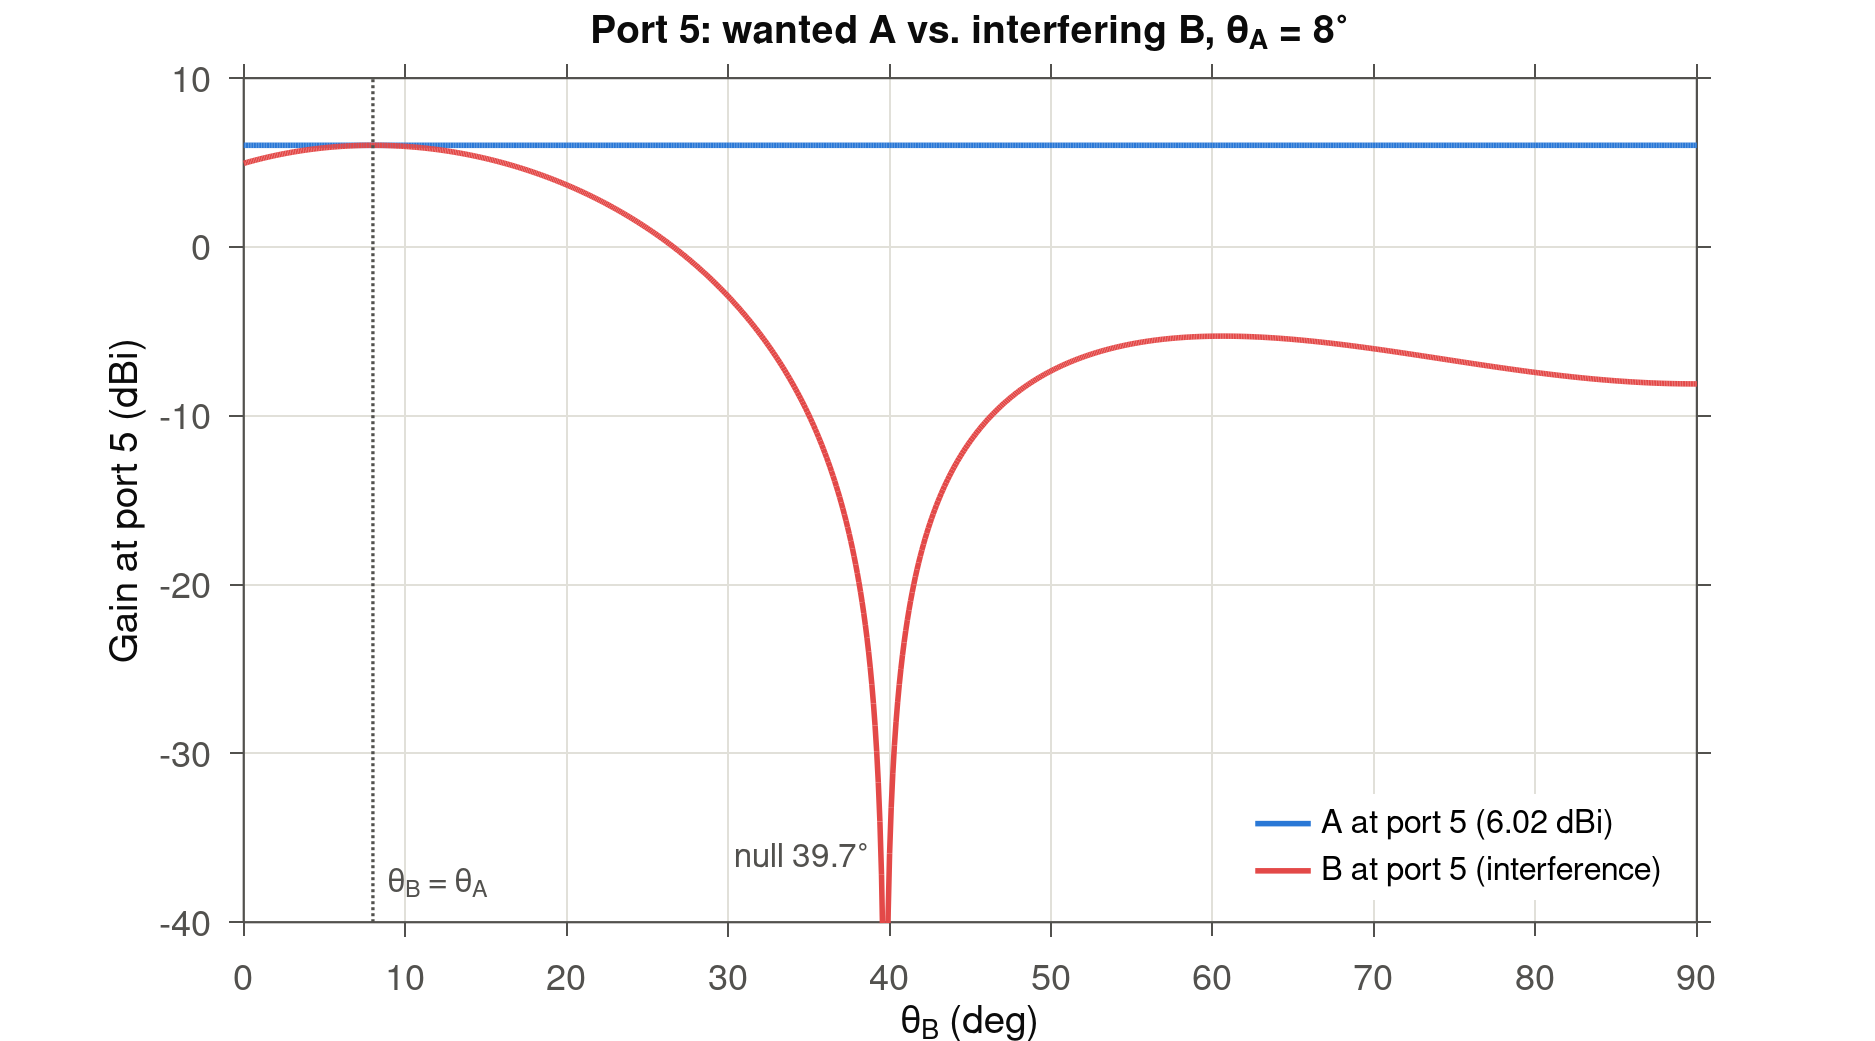
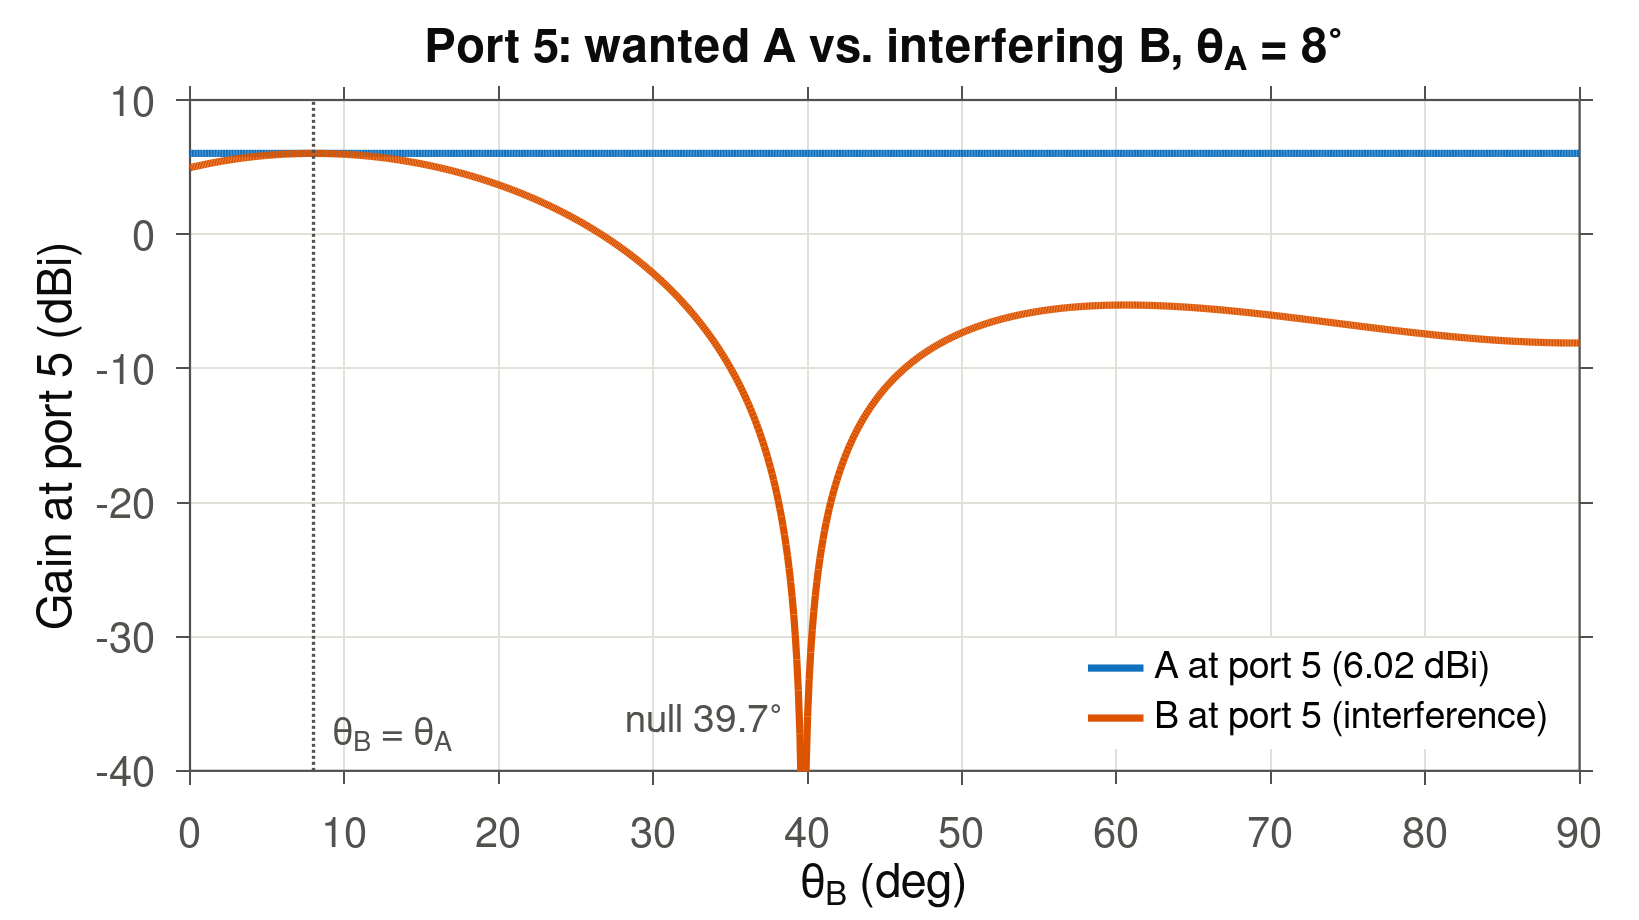
added results overview

diff --git a/SatCom_AnalogBFN/questions/q5_two_bit.m b/SatCom_AnalogBFN/questions/q5_two_bit.m
@@ -305,9 +305,10 @@ function plot_q5(cfg, Q4, Q5)
     busy = [cfg.thetaA - 1, cfg.thetaA + 14];           % the thetaA label at the bottom
     corners = {'southeast', [55 90]; 'southwest', [0 35]};
 
-    % ---- main figure: gains at port 6 + change, both designs -----------------
-    fig = new_figure(cfg, 'Q5 - 2-bit phase shifters', 900, 760);
-    ax  = sub_axes(fig, 2, 1, 1); hold(ax, 'on');
+    % ---- main figure: gains at port 6 (left) + change versus ideal (right) ---
+    fig = new_figure(cfg, 'Q5 - 2-bit phase shifters', 1129, 374);
+    mg  = [0.95 0.2 0.75 0.45 1.0 0];                   % margins [inch], see sub_axes
+    ax  = sub_axes(fig, 1, 2, 1, mg); hold(ax, 'on');
     yl  = [-40 10];  lo = yl(1) - 10;  hi = yl(2) + 10;
     set(ax, 'XLim', [0 90], 'YLim', yl, 'XTick', 0:10:90, 'YTick', -40:10:10);
     h1 = plot(ax, thB, clip_for_plot(Q4.G_B6, lo, hi), 'Color', st.ref, 'LineWidth', st.lwRef);
@@ -315,13 +316,13 @@ function plot_q5(cfg, Q4, Q5)
     h4 = plot(ax, thB, clip_for_plot(Q5.G_A6, lo, hi), 'Color', st.A, 'LineWidth', st.lw);
     h2 = plot(ax, thB, clip_for_plot(kn.G_B6, lo, hi), 'Color', st.B, 'LineWidth', st.lw);
     vguide(ax, cfg.thetaA, '\theta_B = \theta_A', cfg, 'bottom');
-    style_axes(ax, cfg, '', 'Gain at port 6 (dBi)', ...
-               [tag ' phase shifters (0/90/180/270^{\circ}), ' thetaA_tag(cfg)]);
-    legend(ax, [h2 h3 h4 h1], {'B, null on A kept (A: -\infty)', 'B, maximise B', ...
-           'A, maximise B (leakage)', 'B, ideal shifters (Q4)'}, ...
+    style_axes(ax, cfg, '\theta_B (deg)', 'Gain at port 6 (dBi)', ...
+               [tag ' shifters (0/90/180/270^{\circ}), ' thetaA_tag(cfg)]);
+    legend(ax, [h2 h3 h4 h1], {'B, null kept (A: -\infty)', 'B, maximise B', ...
+           'A, maximise B (leak)', 'B, ideal (Q4)'}, ...
            'Location', free_corner(busy, corners, 'eastoutside'), 'Box', 'off');
 
-    ax  = sub_axes(fig, 2, 1, 2); hold(ax, 'on');
+    ax  = sub_axes(fig, 1, 2, 2, mg); hold(ax, 'on');
     yl  = [-6 8];  lo = yl(1) - 5;  hi = yl(2) + 5;
     set(ax, 'XLim', [0 90], 'YLim', yl, 'XTick', 0:10:90, 'YTick', -6:2:8);
     plot(ax, [0 90], [0 0], '-', 'Color', st.ink2, 'LineWidth', 0.8);
@@ -336,7 +337,7 @@ function plot_q5(cfg, Q4, Q5)
     text(ax, xl, yl(2) - 0.5, 'maximise B: +\infty at \theta_B = \theta_A', ...
          'HorizontalAlignment', ha, 'VerticalAlignment', 'top', 'Color', st.ink2, 'FontSize', st.fs - 1);
     style_axes(ax, cfg, '\theta_B (deg)', '\DeltaG_{B,6} (dB)', ...
-               ['Change of B gain at port 6: ' tag ' minus ideal']);
+               ['Change of B at port 6: ' tag ' minus ideal']);
     % top corners: both changes stay well below +4 dB away from thetaA
     legend(ax, [g2 g3], {'null on A kept', 'maximise B'}, ...
            'Location', free_corner(txt, {'northeast', [65 90]; 'northwest', [0 25]}, 'eastoutside'), ...
@@ -344,8 +345,8 @@ function plot_q5(cfg, Q4, Q5)
     save_figure(cfg, fig, sprintf('Q5_%dbit_gain_port6', Q5.nBits));
 
     % ---- backup: breakdown of design 2 ---------------------------------------
-    fig = new_figure(cfg, 'Q5b - breakdown', 900, 500);
-    ax  = axes('Parent', fig); hold(ax, 'on');
+    fig = new_figure(cfg, 'Q5b - breakdown', 787, 442);
+    ax  = sub_axes(fig, 1, 1, 1, [0.95 0.3 0.75 0.5 0 0]); hold(ax, 'on');   % fixed margins [inch]
     yl  = [-4 8];  lo = yl(1) - 5;  hi = yl(2) + 5;
     set(ax, 'XLim', [0 90], 'YLim', yl, 'XTick', 0:10:90, 'YTick', -4:2:8);
     plot(ax, [0 90], [0 0], '-', 'Color', st.ink2, 'LineWidth', 0.8);
@@ -365,12 +366,12 @@ function plot_q5(cfg, Q4, Q5)
     % ---- backup: resolution sweep, both designs ------------------------------
     sw  = Q5.sweep;
     xlb = [sw.bits(1) - 0.3, sw.bits(end) + 0.3];
-    fig = new_figure(cfg, 'Q5c - resolution sweep', 900, 440);
-    ax  = sub_axes(fig, 1, 2, 1); hold(ax, 'on');
+    fig = new_figure(cfg, 'Q5c - resolution sweep', 1129, 374);
+    ax  = sub_axes(fig, 1, 2, 1, mg); hold(ax, 'on');
     hk = plot(ax, sw.bits, sw.knLossMax, '-o', 'Color', st.B, 'LineWidth', st.lw, ...
-              'MarkerFaceColor', st.B, 'MarkerEdgeColor', 'w', 'MarkerSize', 8);
+              'MarkerFaceColor', st.B, 'MarkerEdgeColor', 'w', 'MarkerSize', 10);
     hm = plot(ax, sw.bits, sw.lossMax, '--o', 'Color', st.B, 'LineWidth', st.lwRef + 0.4, ...
-              'MarkerFaceColor', 'w', 'MarkerEdgeColor', st.B, 'MarkerSize', 7);
+              'MarkerFaceColor', 'w', 'MarkerEdgeColor', st.B, 'MarkerSize', 9);
     ytop = max(2, 2*ceil(max([sw.lossMax, sw.knLossMax]) / 2) + 2);
     set(ax, 'XLim', xlb, 'XTick', sw.bits, 'YLim', [0 ytop]);
     style_axes(ax, cfg, 'phase-shifter bits', 'worst B loss (dB)', 'B at port 6 (where ideal \geq 0 dBi)');
@@ -380,9 +381,9 @@ function plot_q5(cfg, Q4, Q5)
     loc = 'northwest';  if right < left, loc = 'northeast'; end
     legend(ax, [hk hm], {'null on A kept', 'maximise B'}, 'Location', loc, 'Box', 'off');
 
-    ax  = sub_axes(fig, 1, 2, 2); hold(ax, 'on');
+    ax  = sub_axes(fig, 1, 2, 2, mg); hold(ax, 'on');
     plot(ax, sw.bits, sw.A6_max, '--o', 'Color', st.A, 'LineWidth', st.lwRef + 0.4, ...
-         'MarkerFaceColor', 'w', 'MarkerEdgeColor', st.A, 'MarkerSize', 7);
+         'MarkerFaceColor', 'w', 'MarkerEdgeColor', st.A, 'MarkerSize', 9);
     yl = [10*floor(min(sw.A6_max)/10) - 5, max(5, 5*ceil(max(sw.A6_max)/5) + 5)];
     set(ax, 'XLim', xlb, 'XTick', sw.bits, 'YLim', yl);
     text(ax, sw.bits(1) + 0.2, sw.A6_max(1), 'maximise B', 'HorizontalAlignment', 'left', ...

diff --git a/SatCom_AnalogBFN/questions/q3_B_network.m b/SatCom_AnalogBFN/questions/q3_B_network.m
@@ -4,7 +4,7 @@ function Q3 = q3_B_network(cfg, Q1)
 %   Deliverable A3 ("determine and plot the unknowns vs thetaB").
 %   Algorithm: design_B_network.m (stage-wise co-phasing + maximal-ratio
 %   combining on the A-free outputs). Cross-checked with closed_form_design.m.
-%   Draws results/figures/Q3_B_network_unknowns_vs_thetaB.png.
+%   Draws results/figures/Q3_B_network_unknowns_vs_thetaB.png (one panel per unknown).
 
     fprintf('\n=== Q3  B network (red): phi4, phi5 and VRC ratio versus thetaB ===\n');
     B  = design_B_network(cfg, Q1.A.settings);
@@ -42,13 +42,14 @@ function Q3 = q3_B_network(cfg, Q1)
               [B.thetaB(:), B.phi4(:), B.phi5(:), B.kappa(:), B.C(:), ...
                10*log10(B.C(:)), 10*log10(1 - B.C(:))], '%.6f');
 
-    % ---- figure: three stacked panels sharing thetaB ------------------------
+    % ---- figure: the three unknowns side by side -----------------------------
     st  = cfg.style;
-    fig = new_figure(cfg, 'Q3 - B network unknowns', 900, 760);
-    names = {'\phi_4 (deg)', '\phi_5 (deg)', 'VRC coupling C (%)'};
+    fig = new_figure(cfg, 'Q3 - B network unknowns', 1129, 317);
+    ylab  = {'\phi_4 (deg)', '\phi_5 (deg)', 'VRC coupling C (%)'};
+    ttl   = {'\phi_4: H4 in phase', '\phi_5: VRC inputs in phase', 'C = sin^2\kappa: no B in the loads'};
     data  = {B.phi4, B.phi5, 100*B.C};
     for k = 1:3
-        ax = sub_axes(fig, 3, 1, k); hold(ax, 'on');
+        ax = sub_axes(fig, 1, 3, k, [0.95 0.2 0.75 0.45 0.95 0]); hold(ax, 'on');
         if k < 3
             [xb, yb] = break_wraps(B.thetaB, data{k});
             set(ax, 'YLim', [0 360], 'YTick', 0:90:360);
@@ -56,7 +57,7 @@ function Q3 = q3_B_network(cfg, Q1)
             xb = B.thetaB; yb = data{k};
             set(ax, 'YLim', [0 100], 'YTick', 0:25:100);
         end
-        set(ax, 'XLim', [0 90], 'XTick', 0:10:90);
+        set(ax, 'XLim', [0 90], 'XTick', 0:15:90);
         if k == 3
             plot(ax, [0 90], [50 50], '--', 'Color', st.ref, 'LineWidth', st.lwRef);
             text(ax, 89, 50, '3-dB coupler', 'HorizontalAlignment', 'right', ...
@@ -64,18 +65,11 @@ function Q3 = q3_B_network(cfg, Q1)
         end
         plot(ax, xb, yb, 'Color', st.B, 'LineWidth', st.lw);
         vguide(ax, cfg.thetaA, '', cfg);
-        if k == 1
-            style_axes(ax, cfg, '', names{k}, ['B network settings versus \theta_B, ' thetaA_tag(cfg)]);
+        style_axes(ax, cfg, '\theta_B (deg)', ylab{k}, ttl{k});
+        if k == 2                          % where the settings are undefined (B identical to A)
             yl = get(ax, 'YLim');
-            text(ax, cfg.thetaA, yl(2), '  \theta_B = \theta_A (undefined)', 'VerticalAlignment', 'top', ...
-                 'Color', st.ink2, 'FontSize', st.fs - 1);
-        elseif k == 2
-            style_axes(ax, cfg, '', names{k});
-        else
-            style_axes(ax, cfg, '\theta_B (deg)', names{k});
-        end
-        if k < 3
-            set(ax, 'XTickLabel', {});
+            text(ax, cfg.thetaA, yl(2) - 0.03*diff(yl), ['  ' thetaA_tag(cfg) ' (undefined)'], ...
+                 'VerticalAlignment', 'top', 'Color', st.ink2, 'FontSize', st.fs - 1);
         end
     end
     save_figure(cfg, fig, 'Q3_B_network_unknowns_vs_thetaB');

diff --git a/SatCom_AnalogBFN/questions/results_overview.m b/SatCom_AnalogBFN/questions/results_overview.m
@@ -1,0 +1,46 @@
+function results_overview(cfg, Q2, Q4, Q5)
+%RESULTS_OVERVIEW  Q2, Q4 and Q5 merged into one figure (results slide).
+%
+%   Left : ideal phase shifters - A and B at port 5 (Q2) and B at port 6 (Q4).
+%          Port 6 gets exactly the B power that port 5 misses.
+%   Right: 2-bit phase shifters - change of the B gain at port 6 (Q5) for
+%          both 2-bit designs.
+%   Draws results/figures/Q2_Q4_Q5_overview.png. The separate figures of
+%   each question stay in q2_..., q4_... and q5_....
+
+    st  = cfg.style;
+    thB = cfg.thetaB;
+    kn  = Q5.keepNull;
+    fig = new_figure(cfg, 'Q2, Q4, Q5 - overview', 1129, 374);
+    mg  = [0.95 0.2 0.75 0.45 1.0 0];                   % margins [inch], see sub_axes
+
+    % ---- left: ideal network, both ports ---------------------------------------
+    ax  = sub_axes(fig, 1, 2, 1, mg); hold(ax, 'on');
+    yl  = [-40 10];  lo = yl(1) - 10;  hi = yl(2) + 10;
+    set(ax, 'XLim', [0 90], 'YLim', yl, 'XTick', 0:10:90, 'YTick', -40:10:10);
+    hB5 = plot(ax, thB, clip_for_plot(Q2.G_B5, lo, hi), 'Color', st.Bramp(1, :), 'LineWidth', st.lwRef);
+    hA5 = plot(ax, thB, Q2.G_A5, 'Color', st.A, 'LineWidth', st.lw);
+    hB6 = plot(ax, thB, clip_for_plot(Q4.G_B6, lo, hi), 'Color', st.B, 'LineWidth', st.lw);
+    vguide(ax, cfg.thetaA, '\theta_B = \theta_A', cfg, 'bottom');
+    text(ax, 89, -18, 'A at port 6: -\infty', 'HorizontalAlignment', 'right', ...
+         'Color', st.ink2, 'FontSize', st.fs - 1);
+    style_axes(ax, cfg, '\theta_B (deg)', 'Gain (dBi)', ['Ideal phase shifters, ' thetaA_tag(cfg)]);
+    legend(ax, [hA5 hB5 hB6], {'A at port 5', 'B at port 5', 'B at port 6'}, ...
+           'Location', 'southeast', 'Box', 'off');
+
+    % ---- right: change of B at port 6 with 2-bit shifters ----------------------
+    ax  = sub_axes(fig, 1, 2, 2, mg); hold(ax, 'on');
+    yl  = [-8 6];  lo = yl(1) - 5;  hi = yl(2) + 5;
+    set(ax, 'XLim', [0 90], 'YLim', yl, 'XTick', 0:10:90, 'YTick', -8:2:6);
+    plot(ax, [0 90], [0 0], '-', 'Color', st.ink2, 'LineWidth', 0.8);
+    g3 = plot(ax, thB, clip_for_plot(Q5.dG_B6, lo, hi), '--', 'Color', st.B, 'LineWidth', st.lwRef + 0.4);
+    g2 = plot(ax, thB, clip_for_plot(kn.dG_B6, lo, hi), 'Color', st.B, 'LineWidth', st.lw);
+    vguide(ax, cfg.thetaA, '', cfg);
+    text(ax, cfg.thetaA + 5, yl(2) - 0.4, '+\infty at \theta_A', 'HorizontalAlignment', 'left', ...
+         'VerticalAlignment', 'top', 'Color', st.ink2, 'FontSize', st.fs - 1);
+    style_axes(ax, cfg, '\theta_B (deg)', '\DeltaG_{B,6} (dB)', ...
+               sprintf('%d-bit shifters: change of B at port 6', Q5.nBits));
+    legend(ax, [g2 g3], {'keep null (A: -\infty)', 'maximise B (A leaks)'}, ...
+           'Location', 'southeast', 'Box', 'off');
+    save_figure(cfg, fig, 'Q2_Q4_Q5_overview');
+end

diff --git a/SatCom_AnalogBFN/src/utils/plot_style.m b/SatCom_AnalogBFN/src/utils/plot_style.m
@@ -1,26 +1,29 @@
 function st = plot_style()
 %PLOT_STYLE  Colours and sizes shared by every figure.
 %
-%   Blue = source / network A and red = source / network B, as in the
-%   assignment figure. Grey is only used for reference curves and bounds.
-%   (Colour pairs checked for colour-vision deficiency; every series also has
-%   a legend entry or a direct label, so colour never carries meaning alone.)
+%   Blue = source / network A and orange = source / network B (the same
+%   colours as the digital-beamformer plots of the group presentation).
+%   Grey is only used for reference curves and bounds. (Blue/orange checked
+%   for colour-vision deficiency; every series also has a legend entry or a
+%   direct label, so colour never carries meaning alone.)
 
-    st.A     = hex2rgb('#2a78d6');           % blue  - source A / port 5
-    st.B     = hex2rgb('#e34948');           % red   - source B / port 6
+    st.A     = hex2rgb('#1171be');           % blue   - source A / port 5
+    st.B     = hex2rgb('#dd5400');           % orange - source B / port 6
     st.ref   = hex2rgb('#898781');           % grey  - reference curves, bounds
     st.ink   = hex2rgb('#0b0b0b');           % titles, labels
     st.ink2  = hex2rgb('#52514e');           % axes, annotations
     st.grid  = hex2rgb('#e1e0d9');           % hairline grid
     st.shade = hex2rgb('#f3f2ee');           % background bands
-    st.Bramp = [hex2rgb('#ee7d7c');          % ordered B designs, light -> dark
-                hex2rgb('#d43d3c');
-                hex2rgb('#8f2424')];
+    st.Bramp = [hex2rgb('#f2a06e');          % ordered B designs, light -> dark
+                hex2rgb('#dd5400');
+                hex2rgb('#8f3700')];
 
-    st.lw    = 2.0;                          % data lines
-    st.lwRef = 1.3;                          % reference lines
-    st.fs    = 13;                           % tick labels, legends
-    st.fsLab = 14;                           % axis labels, titles
+    % Sizes in points. Each figure is drawn at the size it has on a 16:9 slide
+    % (see new_figure), so 15 pt here is also 15 pt in the presentation.
+    st.lw    = 2.6;                          % data lines
+    st.lwRef = 1.8;                          % reference lines
+    st.fs    = 15;                           % tick labels, legends
+    st.fsLab = 17;                           % axis labels, titles
     st.figW  = 900;                          % default figure size [px]
     st.figH  = 500;
 end

diff --git a/SatCom_AnalogBFN/questions/q4_gain_port6.m b/SatCom_AnalogBFN/questions/q4_gain_port6.m
@@ -58,8 +58,8 @@ function Q4 = q4_gain_port6(cfg, Q1, Q3)
 
     % ---- main figure -----------------------------------------------------------
     st  = cfg.style;
-    fig = new_figure(cfg, 'Q4 - gain at port 6');
-    ax  = axes('Parent', fig); hold(ax, 'on');
+    fig = new_figure(cfg, 'Q4 - gain at port 6', 826, 461);
+    ax  = sub_axes(fig, 1, 1, 1, [0.95 0.3 0.75 0.5 0 0]); hold(ax, 'on');   % fixed margins [inch]
     yl  = [-40 10];
     set(ax, 'XLim', [0 90], 'YLim', yl, 'XTick', 0:10:90, 'YTick', -40:10:10);
     hN = plot(ax, [0 90], Q4.bound*[1 1], '--', 'Color', st.ref, 'LineWidth', st.lwRef);
@@ -80,7 +80,7 @@ function Q4 = q4_gain_port6(cfg, Q1, Q3)
     % ---- backup figure: port-6 beam patterns for a few B designs -------------
     Vp  = incident_wave(cfg.thetaPattern, cfg.N, cfg.d_lambda);
     op5 = bfn_forward(Vp, Q1.A.settings);
-    fig = new_figure(cfg, 'Q4b - port 6 beam patterns', 1150, 500);
+    fig = new_figure(cfg, 'Q4b - port 6 beam patterns', 1129, 403);
     ax  = axes('Parent', fig); hold(ax, 'on');
     yl  = [-30 10];
     set(ax, 'XLim', [-90 90], 'YLim', yl, 'XTick', -90:30:90, 'YTick', -30:10:10);
@@ -94,7 +94,7 @@ function Q4 = q4_gain_port6(cfg, Q1, Q3)
         col = st.Bramp(min(k, size(st.Bramp, 1)), :);
         h(end+1) = plot(ax, cfg.thetaPattern, max(gain_dB(op.port6), yl(1) - 10), ...
                         'Color', col, 'LineWidth', st.lw); %#ok<AGROW>
-        plot(ax, thB(j), Q4.G_B6(j), 'o', 'MarkerSize', 8, 'MarkerFaceColor', col, ...
+        plot(ax, thB(j), Q4.G_B6(j), 'o', 'MarkerSize', 10, 'MarkerFaceColor', col, ...
              'MarkerEdgeColor', 'w', 'LineWidth', 1.5);
         lab{end+1} = sprintf('Port 6, designed for \\theta_B = %g^{\\circ}', thB(j)); %#ok<AGROW>
     end

diff --git a/SatCom_AnalogBFN/src/utils/sub_axes.m b/SatCom_AnalogBFN/src/utils/sub_axes.m
@@ -1,5 +1,25 @@
-function ax = sub_axes(fig, m, n, k)
-%SUB_AXES  subplot(m,n,k) inside fig without making an off-screen figure visible.
-    set(0, 'CurrentFigure', fig);
-    ax = subplot(m, n, k);
+function ax = sub_axes(fig, m, n, k, margins)
+%SUB_AXES  Axes k of an m-by-n grid in fig, with fixed margins in inches.
+%
+%   ax = SUB_AXES(fig, m, n, k)            default margins (room for 15-pt labels)
+%   ax = SUB_AXES(fig, m, n, k, margins)   margins = [left right bottom top hgap vgap] (inch)
+%
+%   k counts row by row, as in subplot. The gaps do not scale with the figure
+%   (subplot's do), so the labels get the same room in MATLAB and Octave, and
+%   an off-screen figure does not pop up.
+
+    if nargin < 5 || isempty(margins)
+        margins = [0.95 0.25 0.75 0.45 1.05 0.85];
+    end
+    set(fig, 'PaperUnits', 'inches');
+    pp = get(fig, 'PaperPosition');  W = pp(3);  H = pp(4);     % exported size (new_figure)
+    L = margins(1); R = margins(2); B = margins(3); T = margins(4);
+    hg = margins(5); vg = margins(6);
+    w = (W - L - R - (n - 1)*hg) / n;            % axes size [inch]
+    h = (H - B - T - (m - 1)*vg) / m;
+    r = ceil(k / n);  c = k - (r - 1)*n;         % row (from the top), column
+    x = L + (c - 1)*(w + hg);
+    y = H - T - r*h - (r - 1)*vg;
+    ax = axes('Parent', fig, 'Units', 'normalized', ...
+              'Position', [x/W, y/H, w/W, h/H]);
 end

diff --git a/SatCom_AnalogBFN/questions/q1_A_network.m b/SatCom_AnalogBFN/questions/q1_A_network.m
@@ -56,7 +56,7 @@ function Q1 = q1_A_network(cfg)
     % ---- figure: A-beam (port 5) pattern ---------------------------------
     st  = cfg.style;
     fig = new_figure(cfg, 'Q1 - port 5 beam pattern', 900, 420);
-    ax  = axes('Parent', fig); hold(ax, 'on');
+    ax  = sub_axes(fig, 1, 1, 1, [0.95 0.3 0.75 0.5 0 0]); hold(ax, 'on');   % fixed margins [inch]
     yl  = [-30 10];
     e = 0.004 * [180 diff(yl)];            % keep the box lines visible around the band
     patch(ax, [0 90-e(1) 90-e(1) 0], [yl(1)+e(2) yl(1)+e(2) yl(2)-e(2) yl(2)-e(2)], st.shade, ...
@@ -75,7 +75,7 @@ function Q1 = q1_A_network(cfg)
              'Color', st.ink2, 'FontSize', st.fs - 1);
     end
     plot(ax, cfg.thetaPattern, max(Q1.pattern5, yl(1) - 10), 'Color', st.A, 'LineWidth', st.lw);
-    plot(ax, cfg.thetaA, Q1.G_A5, 'o', 'MarkerSize', 8, ...
+    plot(ax, cfg.thetaA, Q1.G_A5, 'o', 'MarkerSize', 10, ...
          'MarkerFaceColor', st.A, 'MarkerEdgeColor', 'w', 'LineWidth', 1.5);
     text(ax, cfg.thetaA, Q1.G_A5 + 1.2, sprintf('%.2f dBi at \\theta_A', Q1.G_A5), ...
          'HorizontalAlignment', 'center', 'VerticalAlignment', 'bottom', ...

diff --git a/SatCom_AnalogBFN/questions/q2_gain_port5.m b/SatCom_AnalogBFN/questions/q2_gain_port5.m
@@ -51,8 +51,8 @@ function Q2 = q2_gain_port5(cfg, Q1)
 
     % ---- figure ---------------------------------------------------------------
     st  = cfg.style;
-    fig = new_figure(cfg, 'Q2 - gain at port 5');
-    ax  = axes('Parent', fig); hold(ax, 'on');
+    fig = new_figure(cfg, 'Q2 - gain at port 5', 787, 442);
+    ax  = sub_axes(fig, 1, 1, 1, [0.95 0.3 0.75 0.5 0 0]); hold(ax, 'on');   % fixed margins [inch]
     yl  = [-40 10];
     set(ax, 'XLim', [0 90], 'YLim', yl, 'XTick', 0:10:90, 'YTick', -40:10:10);
     hA = plot(ax, thB, Q2.G_A5, 'Color', st.A, 'LineWidth', st.lw);

diff --git a/SatCom_AnalogBFN/main.m b/SatCom_AnalogBFN/main.m
@@ -30,6 +30,7 @@ res.Q2 = q2_gain_port5(cfg, res.Q1);
 res.Q3 = q3_B_network(cfg, res.Q1);
 res.Q4 = q4_gain_port6(cfg, res.Q1, res.Q3);
 res.Q5 = q5_two_bit(cfg, res.Q1, res.Q3, res.Q4);
+results_overview(cfg, res.Q2, res.Q4, res.Q5);   % Q2 + Q4 + Q5 in one figure (slides)
 
 write_summary(cfg, res);
 save(fullfile(cfg.outDir, 'results.mat'), '-v7', 'cfg', 'res');

diff --git a/SatCom_AnalogBFN/README.md b/SatCom_AnalogBFN/README.md
@@ -24,7 +24,8 @@ SatCom_AnalogBFN/
 │   ├── q2_gain_port5.m     gain of A and B at port 5 vs thetaB           (A2)
 │   ├── q3_B_network.m      phi4, phi5, VRC coupling ratio vs thetaB      (A3)
 │   ├── q4_gain_port6.m     gain of B at port 6 vs thetaB (+ patterns)     (A4)
-│   └── q5_two_bit.m        2-bit phase shifters: change of Q4 (+ backup)  (A5)
+│   ├── q5_two_bit.m        2-bit phase shifters: change of Q4 (+ backup)  (A5)
+│   └── results_overview.m  Q2, Q4 and Q5 merged in one figure (slides)
 ├── src/
 │   ├── components/         directional_coupler, hybrid_3dB, phase_shifter
 │   ├── array/              incident_wave (plane wave at the 4 elements)
@@ -126,6 +127,7 @@ With ψ = k d sin θ and Δ = ψB − ψA:
 | A3 unknowns | `Q3_B_network_unknowns_vs_thetaB.png` | `Q3_B_network_vs_thetaB.csv` |
 | A4 port 6 | `Q4_gain_port6_vs_thetaB.png`, `Q4b_port6_beam_patterns.png` | `Q4_gain_port6.csv` |
 | A5 2-bit | `Q5_2bit_gain_port6.png`, `Q5b_breakdown.png`, `Q5c_phase_resolution_sweep.png` | `Q5_2bit_results.csv`, `Q5_2bit_A_network.csv`, `Q5_resolution_sweep.csv` |
+| A2 + A4 + A5 merged | `Q2_Q4_Q5_overview.png` | |
 
 ## Link to Q6/Q7
 
